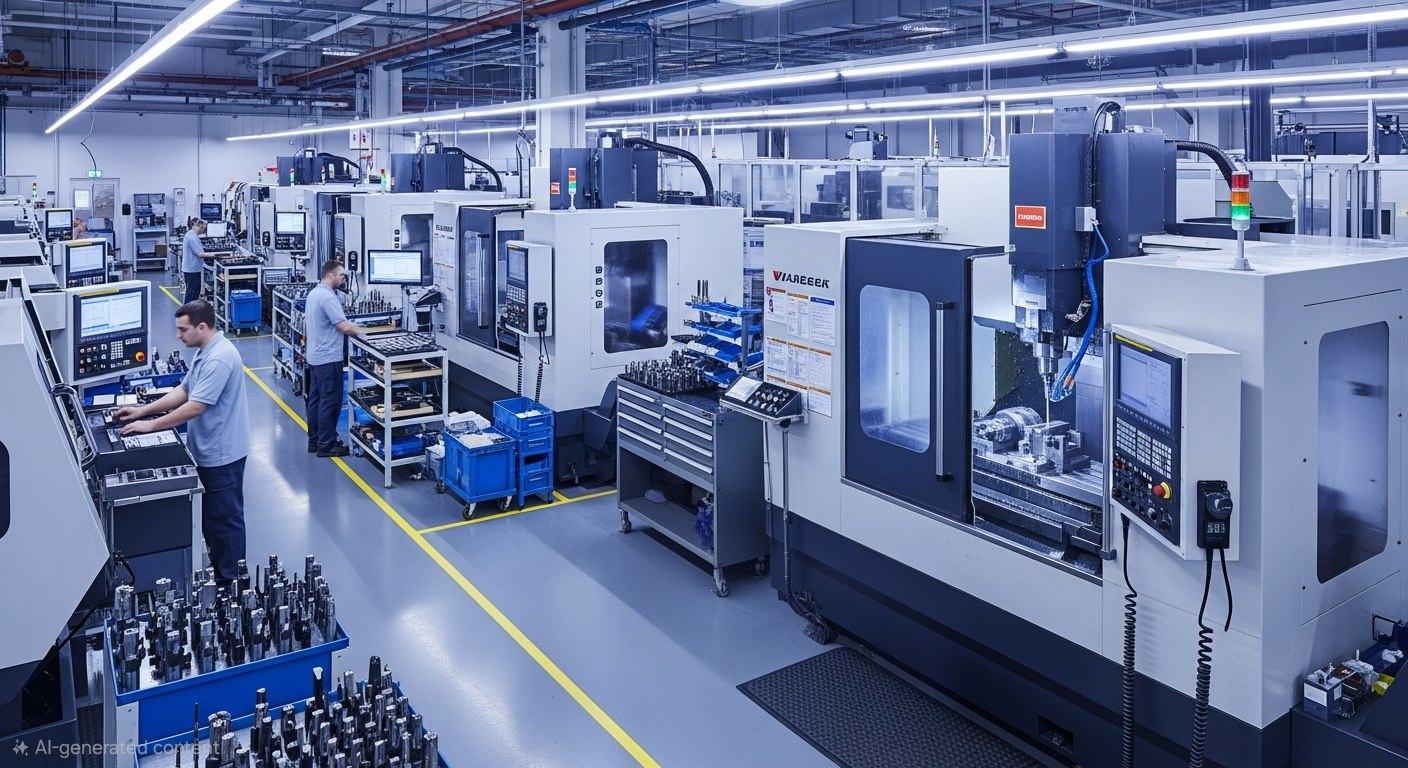
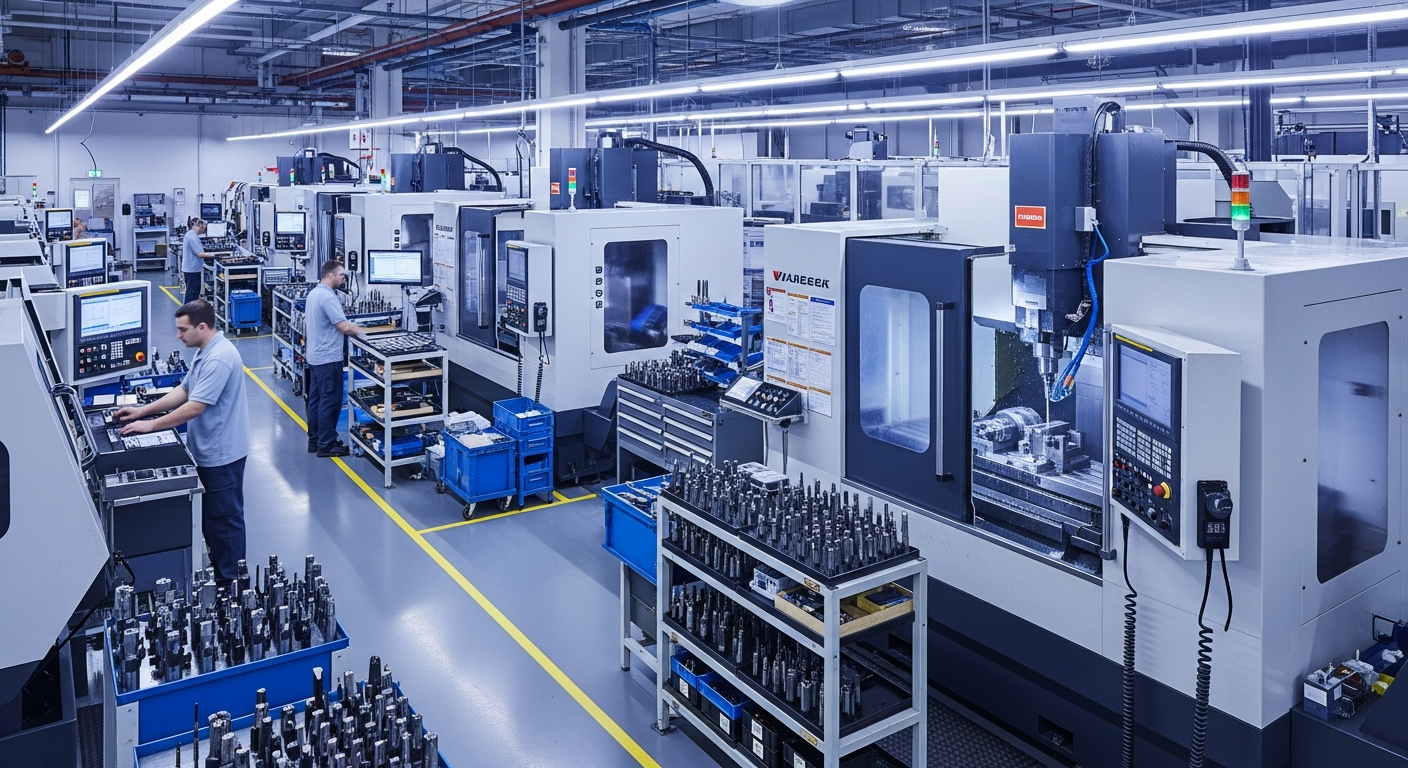
Reverted to commit 34423356114ec4e1d76bf0668186d5166099bc84

Changed region(s): [[0.4062, 0.5625, 0.6875, 1.0], [0.0, 0.9688, 0.1562, 1.0]]

diff --git a/src/pages/HomePage.tsx b/src/pages/HomePage.tsx
@@ -3,7 +3,6 @@ import { Button } from "@/components/ui/button";
 import { ArrowRight, CheckCircle, Cog, Shield, Award, Clock, Car, Heart, Cpu, Zap, Settings, ChevronLeft, ChevronRight } from "lucide-react";
 import { useState, useEffect, useRef, useCallback } from "react";
 import heroPartsCollection from "@/assets/hero-parts-collection.jpg";
-import heroManufacturing from "@/assets/hero-manufacturing.png";
 import product1 from "@/assets/product-1.jpg";
 import product2 from "@/assets/product-2.jpg";
 import product3 from "@/assets/product-3.jpg";
@@ -149,7 +148,7 @@ const HomePage = () => {
       <section className="relative min-h-[400px] md:min-h-[450px] flex items-center">
         <div
           className="absolute inset-0 bg-cover bg-center"
-          style={{ backgroundImage: `url(${heroManufacturing})` }}
+          style={{ backgroundImage: `url(${heroPartsCollection})` }}
         />
         <div className="absolute inset-0 bg-gradient-to-r from-black/85 via-black/70 to-black/50" />
         <div className="relative z-10 container-custom py-6 md:py-10">
